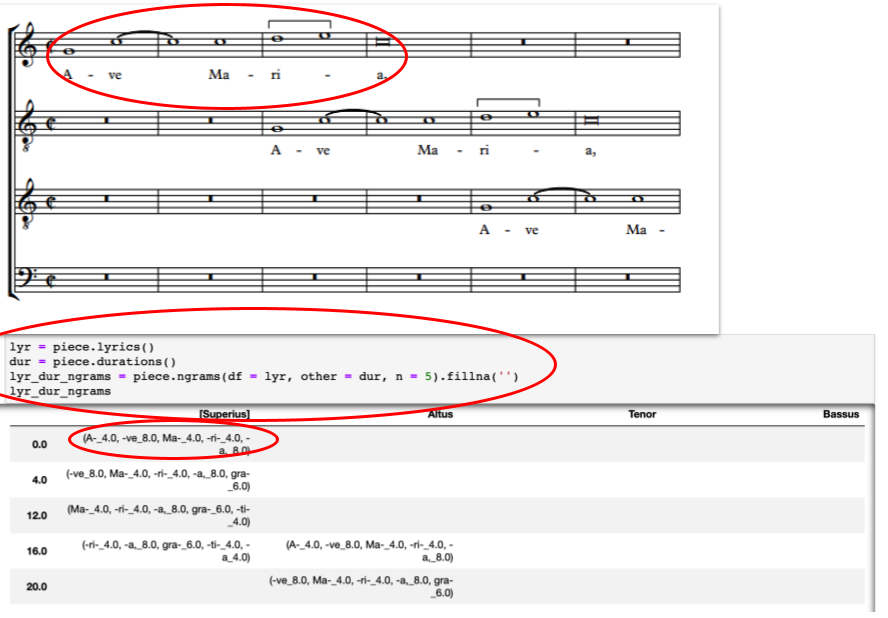
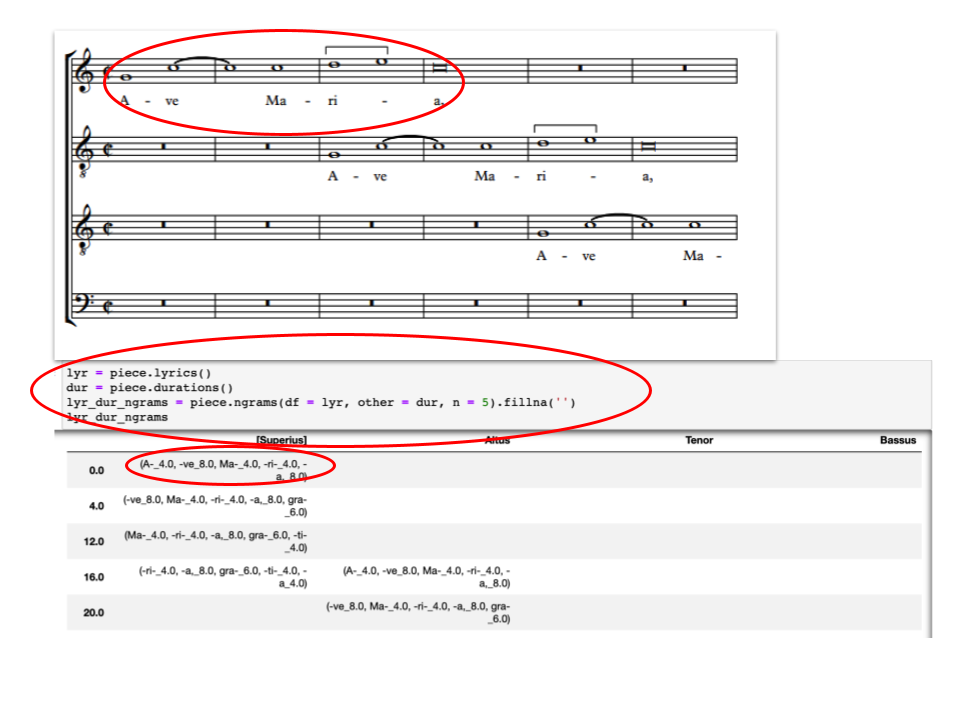
update ng

diff --git a/tutorial/05_Ngrams.md b/tutorial/05_Ngrams.md
@@ -183,9 +183,22 @@ Compare results with and without regularization (unit = 2):
 
 An ngram can be placed within the DataFrame at one of two offsets. By default, the `offsets` parameter is set equal to `"first"`.  In this case the ngram will be associated with the offset of the first element in it (such as the first interval or first lyric syllable). Alternatively, setting the parameter to `"last"` will place it at the offset of its last element.  
 
-    mel = piece.melodic(kind = "c", compound = False)
-    mel_ngrams_lastOffset = piece.ngrams(df = mel, n = 5, offsets = "last")
+Melodic ngrams at offset at start of first note (note settings for both mel and ngrams!):
+
+    mel = piece.melodic(kind = "c", end = False)
+    mel_ngrams_lastOffset = piece.ngrams(df = mel, n = 5, offsets = "first").fillna('')
     mel_ngrams_lastOffset 
+
+
+Melodic ngrams at offset at end of last note (note settings for both mel and ngrams!):
+
+    mel = piece.melodic(kind = "c", end = True)
+    mel_ngrams_lastOffset = piece.ngrams(df = mel, n = 5, offsets = "last").fillna('')
+    mel_ngrams_lastOffset 
+
+
+![Alt text](images/ng_12.png)
+
 
 ## All ngrams or Entries Only? The `entries()` Function  
 
